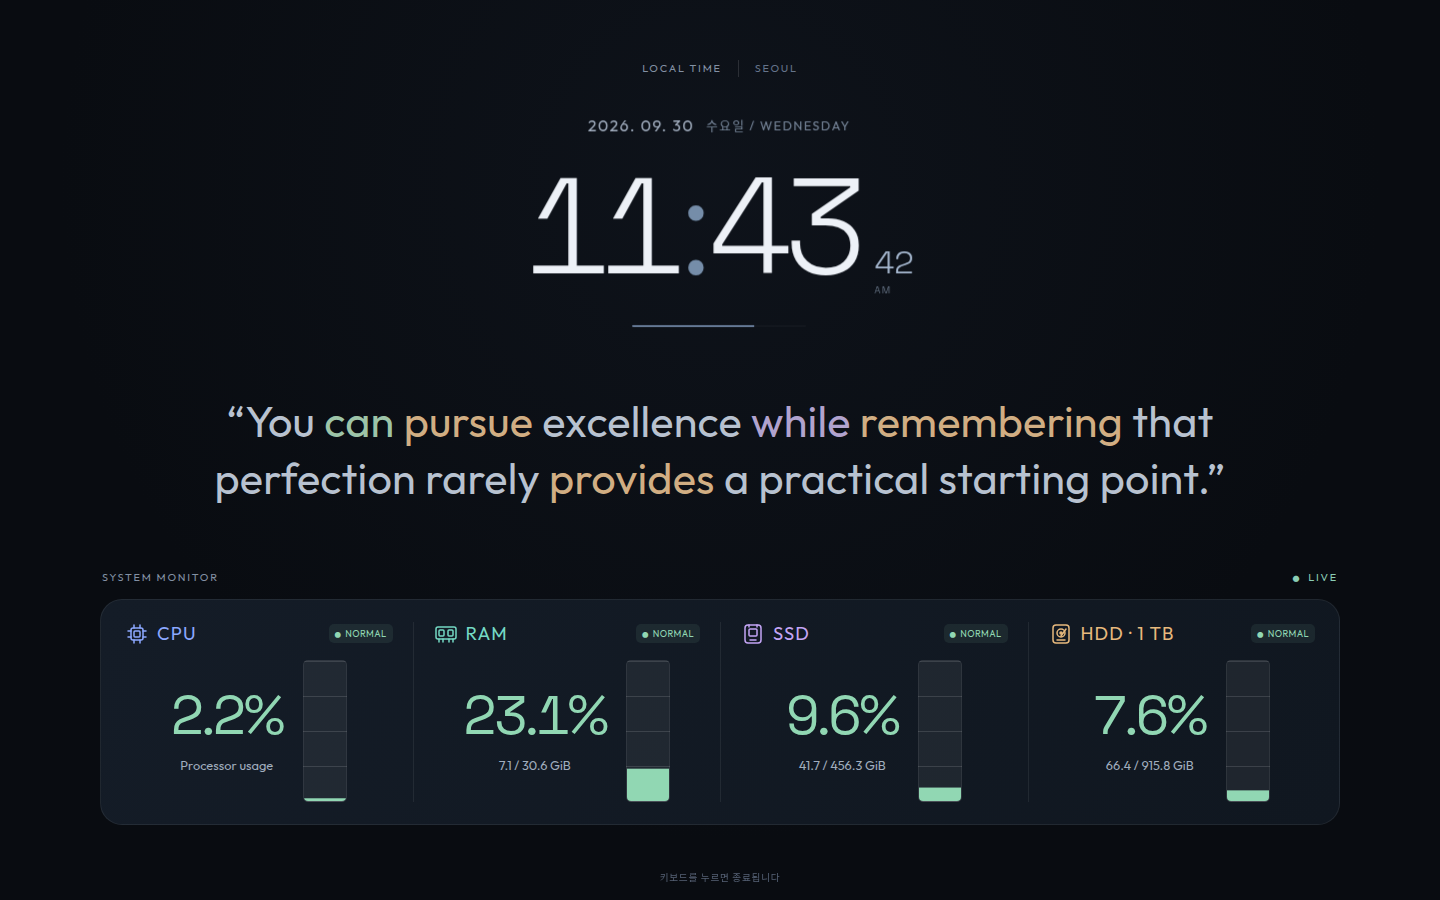
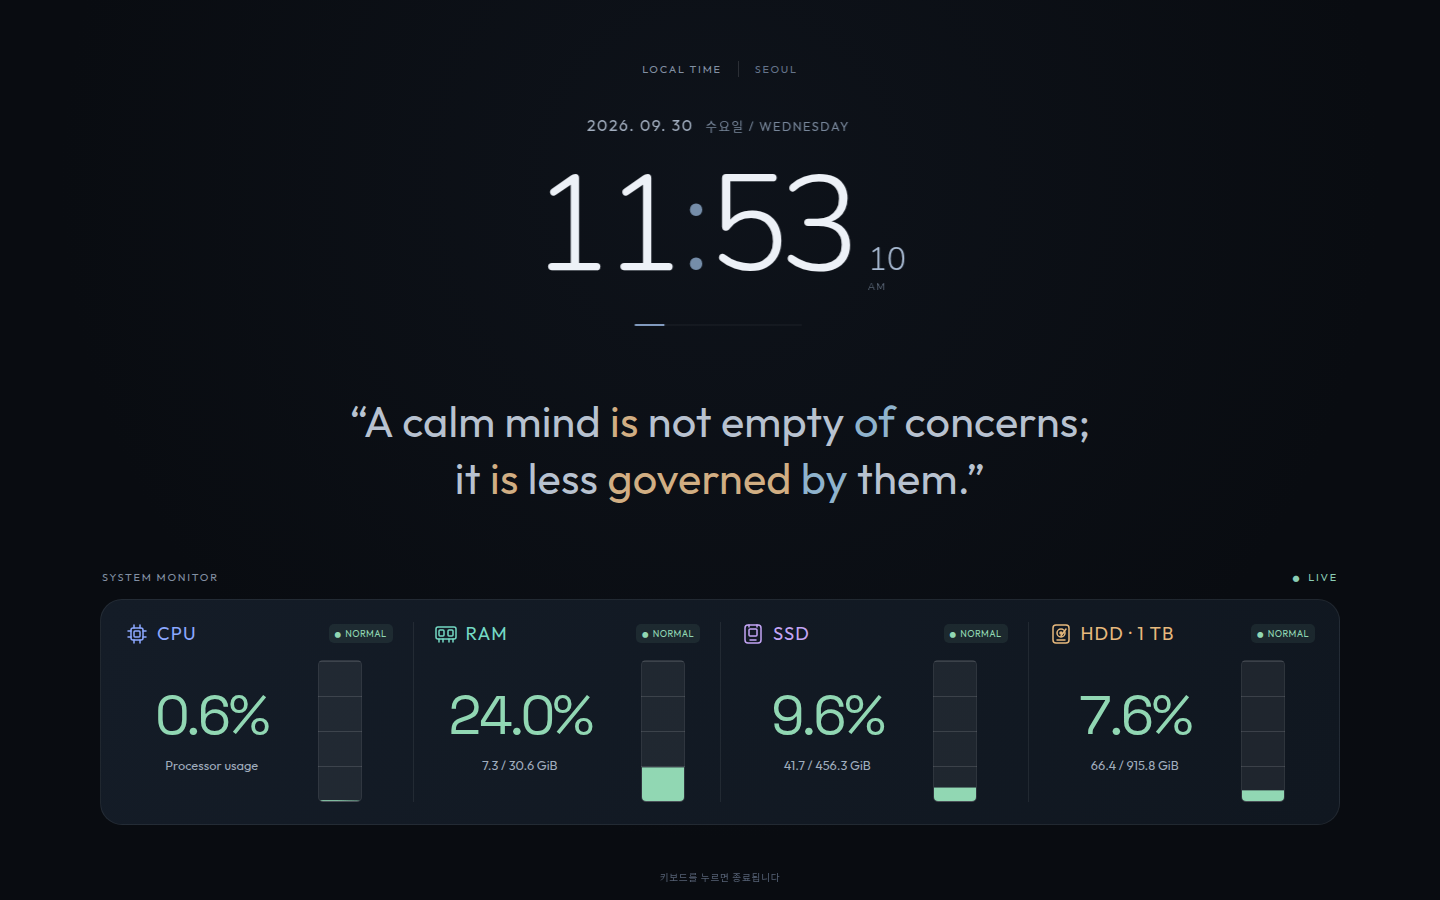
Use rounded clock font and 50px resource gauge spacing

diff --git a/src/style.css b/src/style.css
@@ -27,7 +27,7 @@ body {
 }
 .day-badge { color: #78879b; font-size: 0.8em; white-space: nowrap; }
 .time-row {
-  display: flex; justify-content: center; align-items: baseline; font-family: 'Space Grotesk', monospace;
+  display: flex; justify-content: center; align-items: baseline; font-family: 'Nunito', 'Outfit', sans-serif;
   font-size: clamp(3.5rem, min(10vw, 15dvh), 8.5rem); font-weight: 300; font-variant-numeric: tabular-nums;
   line-height: 1; letter-spacing: -0.065em; white-space: nowrap;
 }
@@ -74,7 +74,7 @@ body {
 .resource-hdd .resource-label { color: #e7b97d; }
 .resource-level { color: var(--severity); font-size: 0.58rem; letter-spacing: 0.04em; white-space: nowrap; padding: 4px 6px; border-radius: 5px; background: color-mix(in srgb, var(--severity) 9%, transparent); }
 .resource-level::before { content: '●'; margin-right: 4px; font-size: 0.7em; }
-.resource-body { grid-column: 1; grid-row: 2; min-width: 0; min-height: 0; height: 100%; display: flex; align-items: center; justify-content: center; gap: 20px; }
+.resource-body { grid-column: 1; grid-row: 2; min-width: 0; min-height: 0; height: 100%; display: flex; align-items: center; justify-content: center; gap: 50px; }
 .resource-readout { order: 1; min-width: 0; text-align: center; }
 .resource-primary { display: flex; justify-content: center; align-items: baseline; }
 .resource-value { color: var(--severity); font-family: 'Space Grotesk', monospace; font-size: clamp(2.2rem, 4vw, 3.4rem); font-variant-numeric: tabular-nums; line-height: 1.1; letter-spacing: -0.05em; }
@@ -91,7 +91,7 @@ body {
 @media (max-width: 1100px) {
   .resource-card { padding: 0 16px; grid-template-columns: minmax(0, 1fr); gap: 16px 8px; }
   .resource-track { width: 26px; }
-  .resource-body { gap: 14px; }
+  .resource-body { gap: 50px; }
   .resource-icon { width: 20px; height: 20px; }
   .resource-label { font-size: 0.95rem; }
   .resource-value { font-size: 2rem; }
@@ -117,7 +117,7 @@ body {
   .screen-grid { padding-left: 20px; padding-right: 20px; }
   .resource-card { padding: 12px; grid-template-columns: minmax(0, 1fr); gap: 10px 6px; }
   .resource-track { width: 18px; }
-  .resource-body { gap: 10px; }
+  .resource-body { gap: 50px; }
   .resource-icon { width: 16px; height: 16px; }
   .resource-heading { gap: 4px; }
   .resource-label { font-size: 0.8rem; letter-spacing: 0.03em; gap: 5px; }
@@ -144,11 +144,11 @@ body {
   .resource-track { width: 18px; }
   .resource-heading { gap: 4px; }
   .resource-label { font-size: 0.6rem; letter-spacing: 0.03em; gap: 4px; }
-  .resource-body { gap: 10px; }
+  .resource-body { gap: 50px; }
   .resource-icon { width: 14px; height: 14px; }
   .resource-level { font-size: 0.45rem; padding: 3px 4px; }
   .resource-level::before { margin-right: 3px; }
-  .resource-value { font-size: 1.35rem; }
+  .resource-value { font-size: 1.2rem; }
   .resource-detail { font-size: 0.55rem; }
   .resource-secondary { margin-top: 6px; }
   .guide-hint { bottom: 8px; }

diff --git a/index.html b/index.html
@@ -7,7 +7,7 @@
   <title>scr-saver · System Dashboard</title>
   <link rel="preconnect" href="https://fonts.googleapis.com">
   <link rel="preconnect" href="https://fonts.gstatic.com" crossorigin>
-  <link href="https://fonts.googleapis.com/css2?family=Outfit:wght@200;300;400;600&family=Space+Grotesk:wght@300;400;500&display=swap" rel="stylesheet">
+  <link href="https://fonts.googleapis.com/css2?family=Nunito:wght@300;400&family=Outfit:wght@200;300;400;600&family=Space+Grotesk:wght@300;400;500&display=swap" rel="stylesheet">
 </head>
 <body>
   <main class="screen-grid" aria-label="Clock, reflection and system dashboard">

diff --git a/README.md b/README.md
@@ -58,7 +58,7 @@ After moving an installed folder, run `./install.sh` again to update paths.
 - Readings update smoothly without clearing the previous values.
 - Larger colored CPU, RAM, SSD, and HDD labels sit at the top, beside a compact status badge.
 - A unified monitoring panel uses four aligned cells with subtle dividers.
-- Percentages and gauges form a centered group with comfortable spacing.
+- Percentages and gauges form a centered group with a 50-pixel gap.
 - Distinct processor, memory, solid-state drive, and hard-drive icons identify the resources. Capacity details sit directly below each percentage.
 - Both percentages and gauges use green for normal usage, amber for watch, and
   red for high usage; status labels accompany the colors.
@@ -66,7 +66,7 @@ After moving an installed folder, run `./install.sh` again to update paths.
 - Resource readings refresh three seconds after each completed request.
 - Memory usage excludes available memory; disk percentages match `df`.
 - A disconnected HDD shows as unavailable instead of reporting the root disk.
-- Balanced clock with date, seconds, and AM/PM; subtle position shifts.
+- Rounded Nunito clock with date, seconds, and AM/PM; subtle position shifts.
 - A centered two-line English reflection with larger adaptive text, randomly
   rotated every ten minutes.
 - 120 shorter original passages, shuffled without repeats within each cycle.
